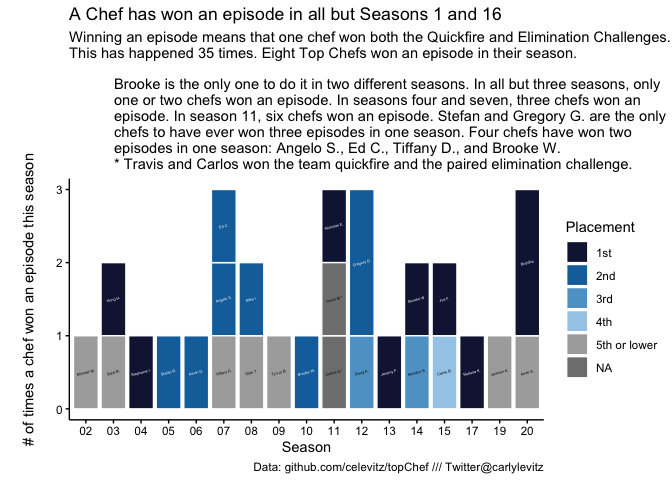
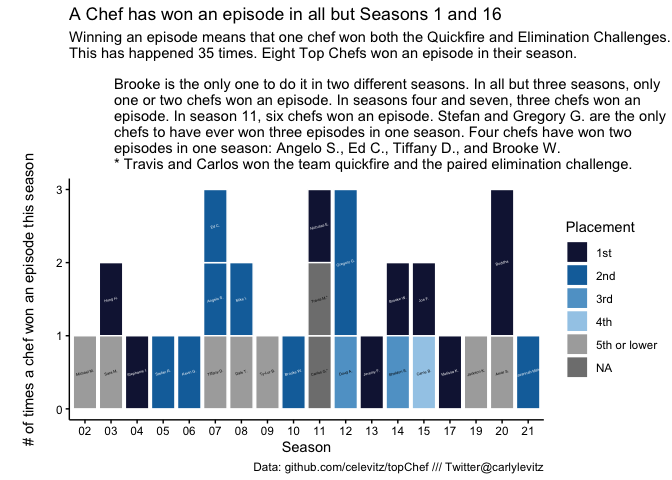
Update readme to include differences between versions

Changed region(s): [[0.0938, 0.375, 0.8125, 0.9062]]

diff --git a/README.md b/README.md
@@ -15,6 +15,30 @@ information.
 - Adding in dish for every chef in every challenge
 - Confessional counts
 
+### Difference between version 0.1.0 and upcoming 0.2.0:
+
+- Edits to ‘chefdetails’: added occupation category and added data for
+  season 21
+- Edits to ‘challengedescriptions’: added data for season 21. Updated
+  historical data if it was missing, particularly for seasons 1-3
+- Edits to ‘challengewins’: added data for season 21. Updated historical
+  data, particularly the quickfire challenges to have low/high data. So
+  far, the edits have only been for seasons 1-3
+- Edits to ‘judges’: added data for season 21 and added variables for
+  gender and whether the judge was a person of color.
+- Edits to ‘rewards’: added data for season 21, and added a variable for
+  categorizing reward types.
+- Edits to ‘episodeinfo’: added data for season 21
+- Made tests more rigorous
+- Edits to index function: 1) simplified it to not use tidy, and instead
+  pull in from dplyr; 2) fixed an error that was making the index pull
+  in data for all challenges prior to a specific number of challenges
+  instead of pulling in JUST the specific number of each type of
+  challenge; 3) updated description to say that you cannot have 0 as an
+  input; 4) fix an error that was leading to people getting an incorrect
+  amount of points in episodes where there was an elimination challenge
+  AND a (sudden death quickfire challenge OR a quickfire elimination).
+
 ## 2. Installation
 
 ``` r
@@ -62,16 +86,16 @@ chefdetails
 #> # A tibble: 432 × 14
 #>    name    chef  hometown city  state   age season seasonNumber series placement
 #>    <chr>   <chr> <chr>    <chr> <chr> <dbl> <chr>         <dbl> <chr>      <dbl>
-#>  1 Harold… Haro… <NA>     New … New …    28 San F…            1 US             1
-#>  2 Tiffan… Tiff… <NA>     Las … Neva…    28 San F…            1 US             2
-#>  3 Dave M… Dave… <NA>     Long… Cali…    40 San F…            1 US             3
-#>  4 Lee An… Lee … <NA>     New … New …    28 San F…            1 US             4
-#>  5 Stephe… Step… <NA>     Las … Neva…    24 San F…            1 US             5
-#>  6 Miguel… Migu… <NA>     New … New …    27 San F…            1 US             6
-#>  7 Andrea… Andr… <NA>     New … New …    37 San F…            1 US             7
-#>  8 Lisa P… Lisa… <NA>     Los … Cali…    45 San F…            1 US             8
-#>  9 Candic… Cand… <NA>     Pasa… Cali…    23 San F…            1 US             9
-#> 10 Brian … Bria… <NA>     Los … Cali…    37 San F…            1 US            10
+#>  1 Ross L… Ross… <NA>     St. … Newf…    31 Canad…            6 Canada         1
+#>  2 Mark S… Mark… <NA>     Vanc… Brit…    29 Canad…            6 Canada         2
+#>  3 Jinhee… Jinh… <NA>     Calg… Albe…    38 Canad…            6 Canada         3
+#>  4 JP Mir… JP M. <NA>     Mont… Queb…    30 Canad…            6 Canada         3
+#>  5 Nathan… Nath… <NA>     Sask… Sask…    35 Canad…            6 Canada         5
+#>  6 Darren… Darr… <NA>     Mont… Queb…    27 Canad…            6 Canada         6
+#>  7 Jesse … Jess… <NA>     Sask… Sask…    29 Canad…            6 Canada         7
+#>  8 Matt S… Matt… <NA>     Toro… Onta…    34 Canad…            6 Canada         7
+#>  9 Elia H… Elia… <NA>     Toro… Onta…    37 Canad…            6 Canada         9
+#> 10 Ivana … Ivan… <NA>     Toro… Onta…    33 Canad…            6 Canada        10
 #> # ℹ 422 more rows
 #> # ℹ 4 more variables: personOfColor <chr>, occupation <chr>, gender <chr>,
 #> #   occupation_category <chr>
@@ -84,7 +108,7 @@ compete in.
 
 ``` r
 challengedescriptions 
-#> # A tibble: 657 × 17
+#> # A tibble: 666 × 17
 #>    season   seasonNumber series episode challengeType outcomeType
 #>    <chr>           <dbl> <chr>    <dbl> <chr>         <chr>      
 #>  1 Kentucky           16 US           1 Quickfire     Team       
@@ -97,7 +121,7 @@ challengedescriptions
 #>  8 Kentucky           16 US           4 Elimination   Team       
 #>  9 Kentucky           16 US           5 Elimination   Team       
 #> 10 Kentucky           16 US           6 Elimination   Individual 
-#> # ℹ 647 more rows
+#> # ℹ 656 more rows
 #> # ℹ 11 more variables: challengeDescription <chr>, shopTime <chr>,
 #> #   shopBudget <chr>, prepTime <dbl>, cookTime <dbl>, productPlacement <chr>,
 #> #   advantage <chr>, lastChanceKitchenWinnerEnters <chr>,
@@ -111,7 +135,7 @@ A tibble containing win and loss data for each chef in each episode.
 
 ``` r
 challengewins
-#> # A tibble: 9,907 × 10
+#> # A tibble: 10,053 × 10
 #>    season   seasonNumber series episode inCompetition immune chef  challengeType
 #>    <chr>           <dbl> <chr>    <dbl> <lgl>         <lgl>  <chr> <chr>        
 #>  1 All Sta…            8 US           1 TRUE          FALSE  Ange… Quickfire    
@@ -124,7 +148,7 @@ challengewins
 #>  8 All Sta…            8 US           1 TRUE          FALSE  Fabi… Quickfire    
 #>  9 All Sta…            8 US           1 TRUE          FALSE  Jami… Quickfire    
 #> 10 All Sta…            8 US           1 TRUE          FALSE  Jenn… Quickfire    
-#> # ℹ 9,897 more rows
+#> # ℹ 10,043 more rows
 #> # ℹ 2 more variables: outcome <chr>, rating <dbl>
 ```
 
@@ -135,7 +159,7 @@ challenge.
 
 ``` r
 judges 
-#> # A tibble: 775 × 11
+#> # A tibble: 784 × 11
 #>    season   seasonNumber series episode challengeType outcomeType guestJudge    
 #>    <chr>           <dbl> <chr>    <dbl> <chr>         <chr>       <chr>         
 #>  1 Canada 6            6 Canada       2 Quickfire     Individual  Danny Bowien  
@@ -148,7 +172,7 @@ judges
 #>  8 Canada 6            6 Canada       5 Quickfire     Individual  Brandon Olsen 
 #>  9 Canada 6            6 Canada       5 Elimination   Team        Alexandra Fes…
 #> 10 Canada 6            6 Canada       6 Quickfire     Individual  Nicole Gomes  
-#> # ℹ 765 more rows
+#> # ℹ 774 more rows
 #> # ℹ 4 more variables: gender <chr>, personOfColor <chr>, competedOnTC <chr>,
 #> #   otherShows <chr>
 ```
@@ -160,7 +184,7 @@ challenge.
 
 ``` r
 rewards
-#> # A tibble: 339 × 9
+#> # A tibble: 345 × 9
 #>    season       seasonNumber series episode challengeType outcomeType rewardType
 #>    <chr>               <dbl> <chr>    <dbl> <chr>         <chr>       <chr>     
 #>  1 All Stars: …            8 US           1 Elimination   Individual  Money     
@@ -173,7 +197,7 @@ rewards
 #>  8 All Stars: …            8 US           4 Elimination   Team        Prize     
 #>  9 All Stars: …            8 US           5 Quickfire     Individual  Prize     
 #> 10 All Stars: …            8 US           6 Elimination   Team        Prize     
-#> # ℹ 329 more rows
+#> # ℹ 335 more rows
 #> # ℹ 2 more variables: reward <chr>, chef <chr>
 ```
 
@@ -183,7 +207,7 @@ A tibble containing information about each episode.
 
 ``` r
 episodeinfo 
-#> # A tibble: 370 × 8
+#> # A tibble: 372 × 8
 #>    season        seasonNumber series overallEpisodeNumber episode episodeName   
 #>    <chr>                <dbl> <chr>                 <dbl>   <dbl> <chr>         
 #>  1 Canada 6                 6 Canada                   60       1 The Next Wave 
@@ -196,7 +220,7 @@ episodeinfo
 #>  8 Canada 6                 6 Canada                   67       8 Finale Four W…
 #>  9 San Francisco            1 US                        1       1 Who Deserves …
 #> 10 San Francisco            1 US                        2       2 Food of Love  
-#> # ℹ 360 more rows
+#> # ℹ 362 more rows
 #> # ℹ 2 more variables: airDate <date>, nCompetitors <dbl>
 ```
 
